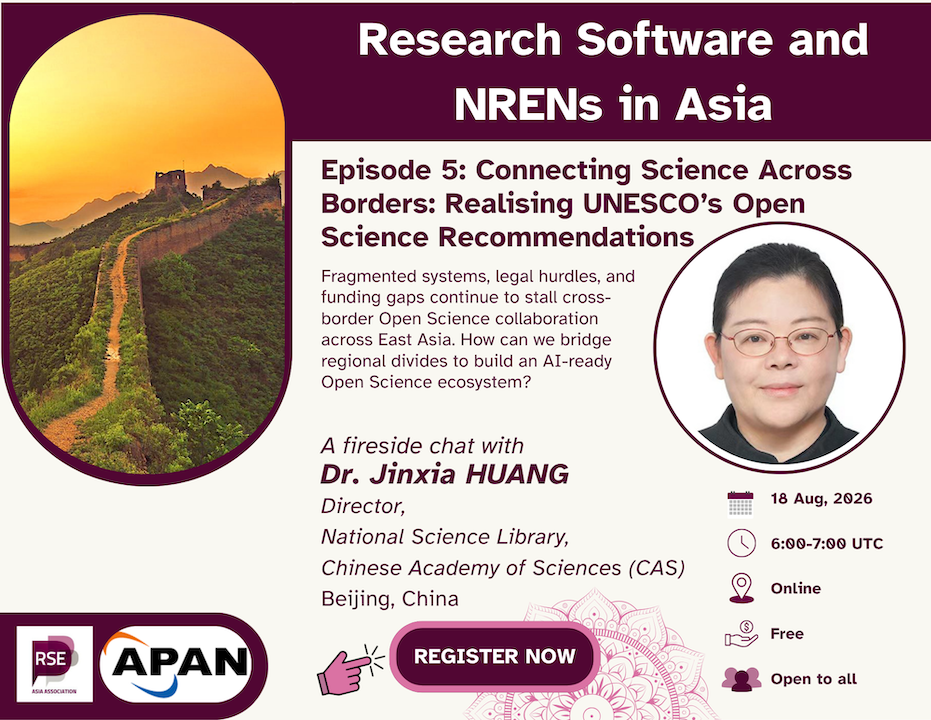
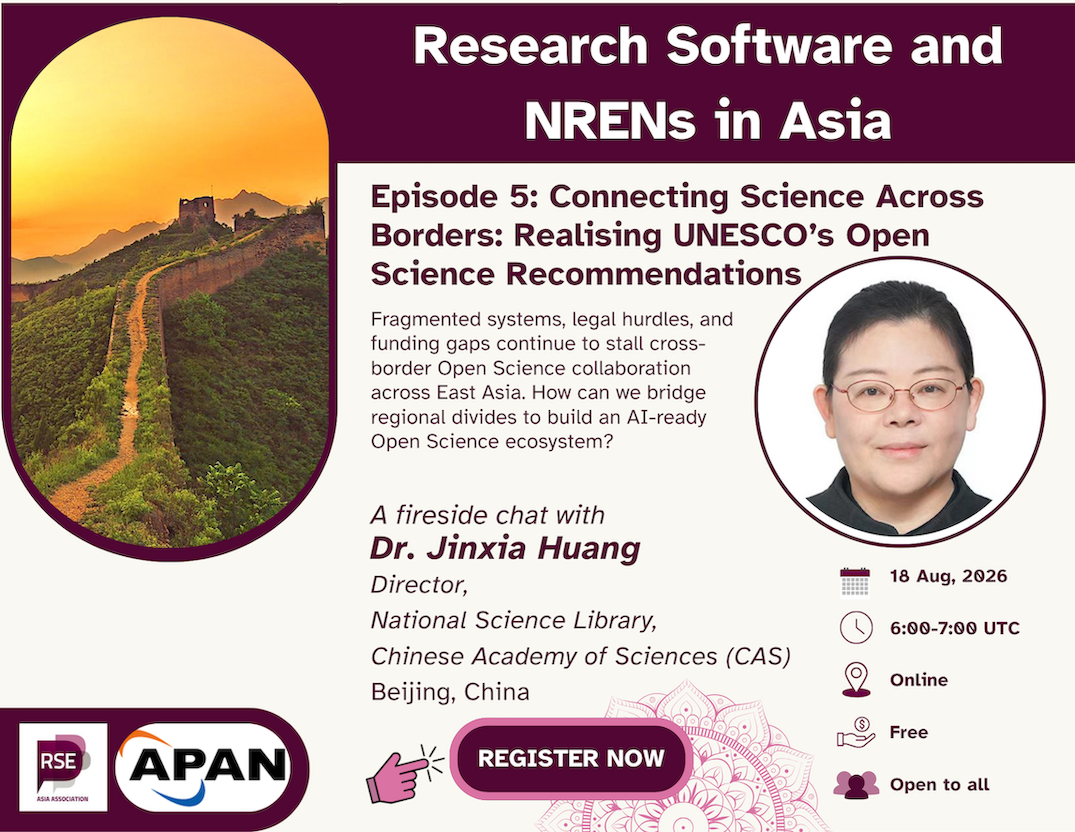
deploy: b231043c097405475d986ab9c78272c375639915

diff --git a/event/2026-08-18-ep-5-open-science-initiative/index.html b/event/2026-08-18-ep-5-open-science-initiative/index.html
@@ -5,9 +5,9 @@
 <a class=dropdown-item href=/RSE_Asia/rsaa/rsaa25><span><span style=font-size:1.1rem>RSEAA25</span></span></a>
 <a class=dropdown-item href=/RSE_Asia/rsaa/rsaa26><span><span style=font-size:1.1rem>RSEAA26</span></span></a></div></li><li class=nav-item><a class=nav-link href=/RSE_Asia/membership><span><span style=font-size:1.1rem>Get Involved</span></span></a></li><li class=nav-item><a class=nav-link href=/RSE_Asia/contact><span><span style=font-size:1.1rem>Contact</span></span></a></li><li class=nav-item><a class=nav-link href=https://github.com/rse-asia/RSE_Asia target=_blank rel=noopener><span><i class='fab fa-github fa-2x'></i></span></a></li><li class=nav-item><a class=nav-link href=mailto:rse.asia.association@gmail.com><span><i class='fas fa-envelope fa-2x'></i></span></a></li><li class=nav-item><a class=nav-link href=https://www.linkedin.com/company/rse-asia-association/ target=_blank rel=noopener><span><i class='fab fa-linkedin fa-2x'></i></span></a></li><li class=nav-item><a class=nav-link href=https://www.youtube.com/@RSEAsiaAssociation target=_blank rel=noopener><span><i class='fab fa-youtube fa-2x'></i></span></a></li></ul></div><ul class="nav-icons navbar-nav flex-row ml-auto d-flex pl-md-2"><li class=nav-item><a class="nav-link js-search" href=# aria-label=Search><i class="fas fa-search" aria-hidden=true></i></a></li><li class="nav-item dropdown theme-dropdown"><a href=# class=nav-link data-toggle=dropdown aria-haspopup=true aria-label="Display preferences"><i class="fas fa-moon" aria-hidden=true></i></a><div class=dropdown-menu><a href=# class="dropdown-item js-set-theme-light"><span>Light</span>
 </a><a href=# class="dropdown-item js-set-theme-dark"><span>Dark</span>
-</a><a href=# class="dropdown-item js-set-theme-auto"><span>Automatic</span></a></div></li></ul></div></nav></header></div><div class=page-body><div class="universal-wrapper pt-3"><h1>Episode 5: Connecting Science Across Borders: Realising UNESCO’s Open Science Recommendations</h1></div><div class=universal-wrapper><div class=row><div class=col-lg-12><div class=article-style><p><figure><div class="d-flex justify-content-center"><div class=w-100><img alt="Connecting Science Across Borders: Realising UNESCO’s Open Science Recommendations" srcset="/RSE_Asia/event/2026-08-18-ep-5-open-science-initiative/rs_nren_series_banner_episode_5_hu377239860483045166.webp 400w,
-/RSE_Asia/event/2026-08-18-ep-5-open-science-initiative/rs_nren_series_banner_episode_5_hu18149729377258427134.webp 760w,
-/RSE_Asia/event/2026-08-18-ep-5-open-science-initiative/rs_nren_series_banner_episode_5_hu15412147735313906816.webp 1200w" src=/RSE_Asia/event/2026-08-18-ep-5-open-science-initiative/rs_nren_series_banner_episode_5_hu377239860483045166.webp width=760 height=587 loading=lazy data-zoomable></div></div></figure></p><p>In the fifth episode of the <strong>&lsquo;Research Software and the NRENs&rsquo;</strong> in Asia meetup series, we will be joined by our guest Dr. Jinxia HUANG for a conversation on open science, research infrastructure, and cross-border collaboration across the Asian research ecosystem. Drawing from early roots in biological research to leadership in library science and literature resource construction, the discussion will trace a career journey into open science and explore the operational realities of Open Science Infrastructures (OSIs) across East Asia.</p><p>We will also unpack key findings from a recent UNESCO and APAN regional survey examining institutional ownership, funding sustainability, and cross-border legal and organisational friction. The session will further examine multilingual metadata challenges, technical standards, and strategic advice for building a cohesive, AI-ready Open Science ecosystem.</p><p>This meetup is conversational in format and intended for researchers, research software engineers, librarians, infrastructure providers, and members of the broader open science community interested in the future of research support.</p><p><strong>18 August 2026 @ 6:00 – 7:00 UTC <a href="https://www.timeanddate.com/worldclock/fixedtime.html?msg=Episode+5&amp;iso=20260818T06&amp;p1=%3A&amp;ah=1" target=_blank rel=noopener>(see in your local time)</a></strong></p><p><a class="rse rse-join" href=https://us06web.zoom.us/meeting/register/EGdLWX5DTwqqB4Y9faM5jA target=_blank><em><strong>Register now!</strong></em></a></p><h2 id=invited-guest>Invited Guest</h2><ul><li><p><strong><a href=https://www.researchgate.net/scientific-contributions/Jinxia-Huang-2208682423 target=_blank rel=noopener>Dr. Jinxia HUANG</a></strong>,
+</a><a href=# class="dropdown-item js-set-theme-auto"><span>Automatic</span></a></div></li></ul></div></nav></header></div><div class=page-body><div class="universal-wrapper pt-3"><h1>Episode 5: Connecting Science Across Borders: Realising UNESCO’s Open Science Recommendations</h1></div><div class=universal-wrapper><div class=row><div class=col-lg-12><div class=article-style><p><figure><div class="d-flex justify-content-center"><div class=w-100><img alt="Connecting Science Across Borders: Realising UNESCO’s Open Science Recommendations" srcset="/RSE_Asia/event/2026-08-18-ep-5-open-science-initiative/rs_nren_series_banner_episode_5_hu16781990290758788392.webp 400w,
+/RSE_Asia/event/2026-08-18-ep-5-open-science-initiative/rs_nren_series_banner_episode_5_hu10581206750347442953.webp 760w,
+/RSE_Asia/event/2026-08-18-ep-5-open-science-initiative/rs_nren_series_banner_episode_5_hu15102040129650623206.webp 1200w" src=/RSE_Asia/event/2026-08-18-ep-5-open-science-initiative/rs_nren_series_banner_episode_5_hu16781990290758788392.webp width=760 height=587 loading=lazy data-zoomable></div></div></figure></p><p>In the fifth episode of the <strong>&lsquo;Research Software and the NRENs&rsquo;</strong> in Asia meetup series, we will be joined by our guest Dr. Jinxia Huang for a conversation on open science, research infrastructure, and cross-border collaboration across the Asian research ecosystem. Drawing from early roots in biological research to leadership in library science and literature resource construction, the discussion will trace a career journey into open science and explore the operational realities of Open Science Infrastructures (OSIs) across East Asia.</p><p>We will also unpack key findings from a recent UNESCO and APAN regional survey examining institutional ownership, funding sustainability, and cross-border legal and organisational friction. The session will further examine multilingual metadata challenges, technical standards, and strategic advice for building a cohesive, AI-ready Open Science ecosystem.</p><p>This meetup is conversational in format and intended for researchers, research software engineers, librarians, infrastructure providers, and members of the broader open science community interested in the future of research support.</p><p><strong>18 August 2026 @ 6:00 – 7:00 UTC <a href="https://www.timeanddate.com/worldclock/fixedtime.html?msg=Episode+5&amp;iso=20260818T06&amp;p1=%3A&amp;ah=1" target=_blank rel=noopener>(see in your local time)</a></strong></p><p><a class="rse rse-join" href=https://us06web.zoom.us/meeting/register/EGdLWX5DTwqqB4Y9faM5jA target=_blank><em><strong>Register now!</strong></em></a></p><h2 id=invited-guest>Invited Guest</h2><ul><li><p><strong><a href=https://www.researchgate.net/scientific-contributions/Jinxia-Huang-2208682423 target=_blank rel=noopener>Dr. Jinxia HUANG</a></strong>,
 Director, Open Science Research Center of the National Science Library, <em><a href=https://english.cas.cn/ target=_blank rel=noopener>Chinese Academy of Sciences (CAS)</a></em>, Beijing, China</p><p><a href=https://www.researchgate.net/scientific-contributions/Jinxia-Huang-2208682423 target=_blank rel=noopener>Dr. Jinxia HUANG</a>, is the Director at the Open Science Research Center of the <em><a href=https://english.las.cas.cn/ target=_blank rel=noopener>National Science Library of Chinese Academy of Sciences (NSLC)</a></em>, Beijing, China and a professor of the School of Economics and Management of the University of the <em><a href=https://english.ucas.ac.cn/ target=_blank rel=noopener>Chinese Academy of Sciences (UCAS)</a></em>. She holds a PhD in Biology and worked on literature resource construction in NSLC for 10 years. She became the head of the Open Science and Technology Resources Development Team for CAS in 2013 and has participated in the research and practice projects on open science for CAS, China and UNESCO since 2020. She led the team to establish a global high-quality Open Access (OA) paper integration platform GoOA (including more than 27,000 OA journals and more than 16 million OA papers, and signed OA data cooperation agreements with 30 international publishers), developed the APC rationality Inquiry tool <a href=gooa.las.ac.cn/APCheck>APCheck</a>, and annually released the “List of Global High-quality OA S&amp;T Journals” and ”Global OA Journals and APC Monitoring Reports”.</p></li></ul><div class="alert alert-note"><div><h3 id=learn-more-about-us><strong>Learn More About Us</strong></h3><p>For more information and to join upcoming events, visit:</p><ul><li>Website: <a href=https://rse-asia.github.io/RSE_Asia/ target=_blank rel=noopener>https://rse-asia.github.io/RSE_Asia/</a></li><li>For the latest news, events, activities, and opportunities, follow us on our <a href=https://www.linkedin.com/company/rse-asia-association/ target=_blank rel=noopener>LinkedIn page</a></li><li>To join the RSE Asia community, please fill out our short
 <a href=https://docs.google.com/forms/d/1XSxDaTJzcNyGeDYXyJNVg1TDCo7un18PLFNiK6_jL2g/edit target=_blank rel=noopener>Community Membership Form</a></li></ul></div></div></div></div></div></div></div><div class=page-footer><div class=container><footer class=site-footer><p class="powered-by copyright-license-text"><section style="width:100vw;margin-left:calc(-50vw + 50%);background-color:#343a40;padding:8px 0"><div style="max-width:1200px;margin:0 auto;padding:0 20px;color:#fff;text-align:center"><div style=display:flex;justify-content:center;gap:80px;text-align:left;margin-bottom:20px><div><strong style=font-size:1.2rem;font-weight:700>RSE Asia</strong><br><a href=/ style=color:#fff;font-weight:400>Home</a><br><a href=/people/ style=color:#fff;font-weight:400>People</a><br><a href=/event/ style=color:#fff;font-weight:400>Events</a><br><a href=/post/ style=color:#fff;font-weight:400>News</a><br><a href=/contact/ style=color:#fff;font-weight:400>Contact</a></div><div><strong style=font-size:1.2rem>RSAA</strong><br><a href=/rsaa/rsaa26/ style=color:#fff;font-weight:400>RSAA 2026</a><br><a href=/rsaa/rsaa25/ style=color:#fff;font-weight:400>RSAA 2025</a><br><a href=/rsaa/rseaa24/ style=color:#fff;font-weight:400>RSEAA 2024</a><br><a href=/rsaa/rseaa23/ style=color:#fff;font-weight:400>RSEAA 2023</a><br><a href=/rsaa/rseaa22/ style=color:#fff;font-weight:400>RSEAA 2022</a></div><div><strong style=font-size:1.2rem>Resources</strong><br><a href="https://zenodo.org/communities/rse-asia-association/records?q=&l=list&p=1&s=10&sort=newest" style=color:#fff;font-weight:400>Resource Sheets</a><br><a href=https://www.youtube.com/@RSEAsiaAssociation style=color:#fff;font-weight:400>Recordings</a></div></div>© 2026 Research Software Engineering Asia Association. This work is <a href=/license style=color:#fff;text-decoration:underline>licensed</a> under CC BY 4.0 International.</div></section></p><p class=powered-by>Published with <a href="https://hugoblox.com/?utm_campaign=poweredby" target=_blank rel=noopener>Hugo Blox Builder</a> — the free, <a href=https://github.com/HugoBlox/hugo-blox-builder target=_blank rel=noopener>open source</a> website builder that empowers creators.</p></footer></div></div><script src=/RSE_Asia/js/vendor-bundle.min.50933d940896e49f984a778650d5f7f5.js></script><script src=https://cdn.jsdelivr.net/npm/leaflet@1.7.1/dist/leaflet.min.js integrity crossorigin=anonymous></script><script id=search-hit-fuse-template type=text/x-template>
     <div class="search-hit" id="summary-{{key}}">

diff --git a/event/index.html b/event/index.html
@@ -7,7 +7,7 @@
 </a><a href=# class="dropdown-item js-set-theme-dark"><span>Dark</span>
 </a><a href=# class="dropdown-item js-set-theme-auto"><span>Automatic</span></a></div></li></ul></div></nav></header></div><div class=page-body><div class="universal-wrapper pt-3"><h1>Recent & Upcoming Events</h1></div><div class=universal-wrapper><div class=row><div class=col-lg-12><div class=article-style></div><div class=row id=talk_list><div class=col-lg-2><h3>2026</h3></div><div class=col-lg-10><div class="media stream-item view-compact"><div class=media-body><div class="section-subheading article-title mb-0 mt-0"><a href=/RSE_Asia/event/2026-08-18-ep-5-open-science-initiative/>Episode 5: Connecting Science Across Borders: Realising UNESCO’s Open Science Recommendations</a></div><a href=/RSE_Asia/event/2026-08-18-ep-5-open-science-initiative/ class=summary-link><div class=article-style>(Episode 5) Research Software and NRENs in Asia</div></a><div class="stream-meta article-metadata"><div><span>Aug 18, 2026 6:00 AM &mdash; 7:00 AM
 </span><span class=middot-divider></span>
-<span>Online</span></div></div></div><div class=ml-3><a href=/RSE_Asia/event/2026-08-18-ep-5-open-science-initiative/><img src=/RSE_Asia/event/2026-08-18-ep-5-open-science-initiative/rs_nren_series_banner_episode_5_hu8743024188696053639.webp height=116 width=150 alt="Episode 5: Connecting Science Across Borders: Realising UNESCO’s Open Science Recommendations" loading=lazy></a></div></div><div class="media stream-item view-compact"><div class=media-body><div class="section-subheading article-title mb-0 mt-0"><a href=/RSE_Asia/event/2026-07-15-ep-4-research_data_and_information_science/>Episode 4: Open Science, Research Infrastructure, and Collaboration</a></div><a href=/RSE_Asia/event/2026-07-15-ep-4-research_data_and_information_science/ class=summary-link><div class=article-style>(Episode 4) Research Software and NRENs in Asia</div></a><div class="stream-meta article-metadata"><div><span>Jul 15, 2026 6:00 AM &mdash; 7:00 AM
+<span>Online</span></div></div></div><div class=ml-3><a href=/RSE_Asia/event/2026-08-18-ep-5-open-science-initiative/><img src=/RSE_Asia/event/2026-08-18-ep-5-open-science-initiative/rs_nren_series_banner_episode_5_hu11452739216079084941.webp height=116 width=150 alt="Episode 5: Connecting Science Across Borders: Realising UNESCO’s Open Science Recommendations" loading=lazy></a></div></div><div class="media stream-item view-compact"><div class=media-body><div class="section-subheading article-title mb-0 mt-0"><a href=/RSE_Asia/event/2026-07-15-ep-4-research_data_and_information_science/>Episode 4: Open Science, Research Infrastructure, and Collaboration</a></div><a href=/RSE_Asia/event/2026-07-15-ep-4-research_data_and_information_science/ class=summary-link><div class=article-style>(Episode 4) Research Software and NRENs in Asia</div></a><div class="stream-meta article-metadata"><div><span>Jul 15, 2026 6:00 AM &mdash; 7:00 AM
 </span><span class=middot-divider></span>
 <span>Online</span></div></div></div><div class=ml-3><a href=/RSE_Asia/event/2026-07-15-ep-4-research_data_and_information_science/><img src=/RSE_Asia/event/2026-07-15-ep-4-research_data_and_information_science/rs_nren_series_banner_episode_4_merlion_hu9474054884189177258.webp height=116 width=150 alt="Episode 4: Open Science, Research Infrastructure, and Collaboration" loading=lazy></a></div></div><div class="media stream-item view-compact"><div class=media-body><div class="section-subheading article-title mb-0 mt-0"><a href=/RSE_Asia/event/2026-05-12_ep-3-library/>Episode 3: Role of Libraries in Research Support for Scientific Software</a></div><a href=/RSE_Asia/event/2026-05-12_ep-3-library/ class=summary-link><div class=article-style>(Episode 3) Research Software and NRENs in Asia</div></a><div class="stream-meta article-metadata"><div><span>May 12, 2026 7:00 AM &mdash; 8:00 AM
 </span><span class=middot-divider></span>
